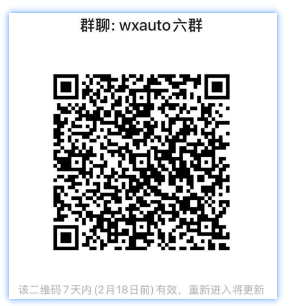
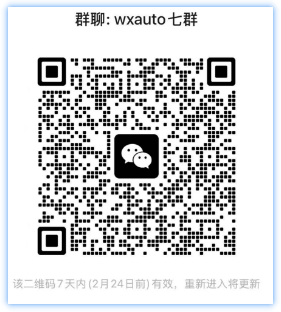
update qrcode

diff --git a/docs/plus/about.md b/docs/plus/about.md
@@ -7,7 +7,7 @@ title: 关于plus版本
 
 # 关于plus版本
 
-该版本为`wxauto`的plus版本`✨wxautox`，在保留`wxauto`所有功能的基础上，完善和提升了过与用户规模最举的体验和性能：
+该版本为`wxauto`的plus版本`✨wxautox`，在保留`wxauto`所有功能的基础上，完善和提升了用户的体验和性能：
 
 1. **BUG 修复**：完善了并修复了`wxauto`存在的许多问题。
 2. **高效性能**：新增多项完善功能，大部分场景用户不再需要移动鼠标。
@@ -71,7 +71,7 @@ from wxautox import WeChat
 
 ### 获取Plus
 
-加作者好友，备注`plus`（左侧二维码）
+加作者好友，备注`plus`（左侧二维码），或加群获取对接AI应用demo（右侧二维码）。
 
 <img src="/img/qrcode.png" alt="author" width="260"/><img src="/img/group_qrcode.png" alt="group" width="245"/>
 
